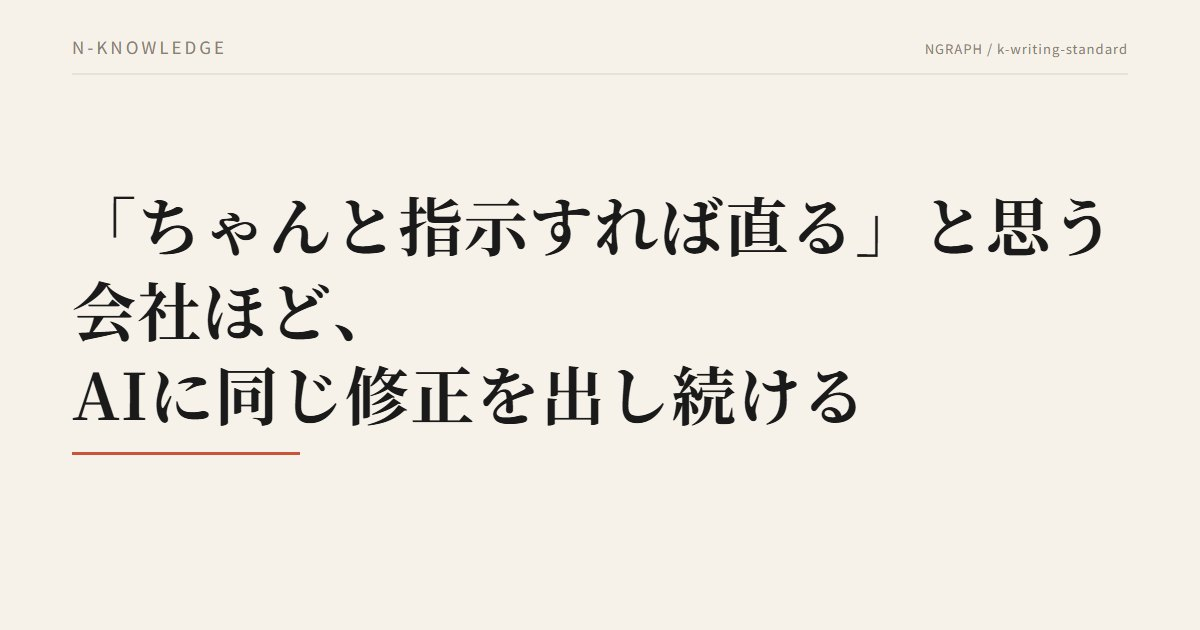
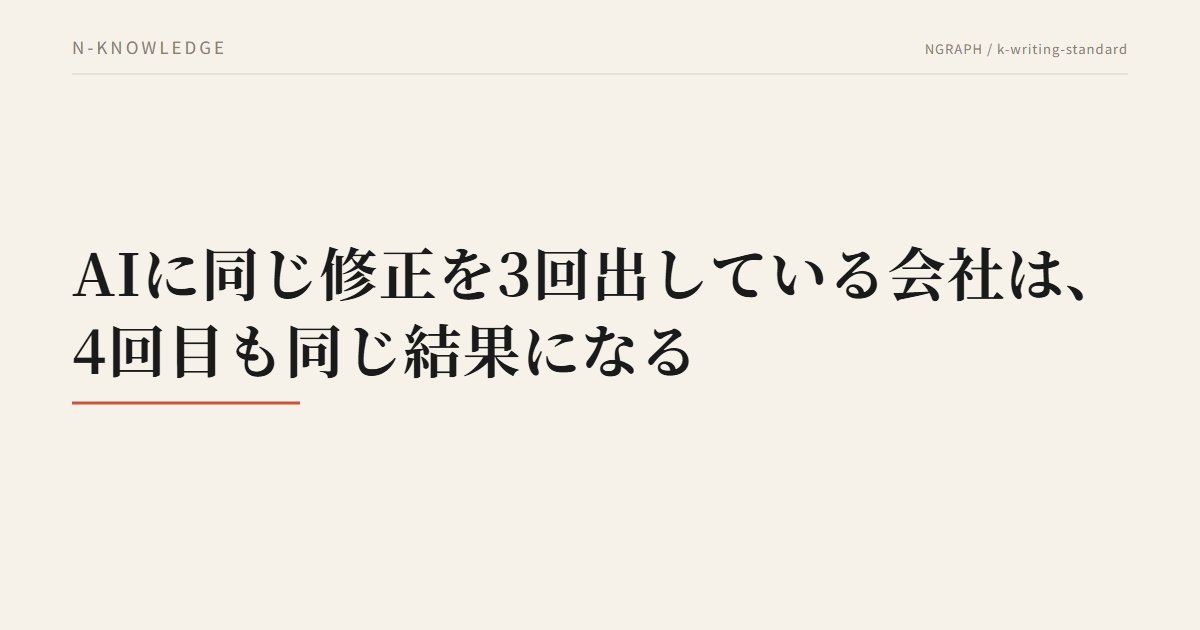
k-writing-standard を改題し、一覧/llms.txt とのタイトル不一致を検査に載せる
〔髙橋さん 2026-08-20「そもそもタイトルがイケてないんだ」〕

標本（ngraph-workspace/projects/ops-watch/blog-specimens.jsonl）の保存上位を実測すると、
上位7件に「——」で説明を足したものは1件も無く、長さは25〜33字だった。上位の型は逆説・
失敗の名指し（1707「そもそも生成AIでやるべきでない問い」に、企業が挑んでしまう問題／
671「AIを全員に配った組織」の生産性が落ちるとき）。旧題は前半の逆説は型に合っていたが、
後半「——品質基準を人の口から外す設計」が抽象標語で48字。X-OPS §6 8/18の仮説
「うちのタイトルは抽象概念解説型に寄っている」とも一致する。

- 新題「AIに同じ修正を3回出している会社は、4回目も同じ結果になる」（31字・数字あり・
  記事本文の核「3回出したなら4回目を出す前に置き場所を変える」と一致）。髙橋さん選択
- 表紙を2行で作り直した。「会社は、」の読点で切れるので語の分断ゼロ
- ⚠**一覧と llms.txt が旧タイトルのままだった**。8/19の改題で記事本体だけ直り、一覧の
  説明文に至っては没にした旧構想「基準の三段降ろし」のまま公開されていた（本文は「基準の移送」）

再発防止（title_sync_check.py 新設・gate.py に登録）:
既存の配線検査は「URLがあるか」しか見ておらず、タイトルの食い違いは素通りしていた。
h1と一覧/llms.txt を突合する検査を足す。ただし **report-only**——導入時点で既存14件が
不一致で、性質が3つに分かれるため（①改題の反映漏れ ②llms.txtが恒久記事の題を意図的に
短縮 ③引用符だけの差）、機械では正解を決められない。②を書き換えると意図した索引名を壊す。
黙って対象外にはせず毎回全件出す。全件が①③に片付いたら publish_check の CHECKS へ移す。

負テスト実測: 一覧のタイトルをズラすと検出件数が14→15に増えることを確認。

Changed region(s): [[0.0617, 0.3016, 0.925, 0.7238]]

diff --git a/blog/k-writing-standard.html b/blog/k-writing-standard.html
@@ -10,9 +10,9 @@
   gtag('js', new Date());
   gtag('config', 'G-L96HMXRK1D');
 </script>
-<title>「ちゃんと指示すれば直る」と思う会社ほど、AIに同じ修正を出し続ける——品質基準を人の口から外す設計 | NGraphブログ</title>
+<title>AIに同じ修正を3回出している会社は、4回目も同じ結果になる | NGraphブログ</title>
 <meta name="description" content="AIに出した修正指示は、次の生成には引き継がれません。基準を人の口から外し、AIが毎回読む指示書と、提出前に必ず走る検査へ移す設計です。閾値の決め方と、基準を作った本人が自分の基準に落ちた失敗まで公開します。">
-<meta property="og:title" content="「ちゃんと指示すれば直る」と思う会社ほど、AIに同じ修正を出し続ける——品質基準を人の口から外す設計 | NGraphブログ">
+<meta property="og:title" content="AIに同じ修正を3回出している会社は、4回目も同じ結果になる | NGraphブログ">
 <meta property="og:description" content="AIに出した修正指示は、次の生成には引き継がれません。基準を人の口から外し、AIが毎回読む指示書と、提出前に必ず走る検査へ移す設計です。閾値の決め方と、基準を作った本人が自分の基準に落ちた失敗まで公開します。">
 <meta property="og:type" content="article">
 <meta property="og:url" content="https://ngraph.jp/blog/k-writing-standard">
@@ -33,7 +33,7 @@
 {
   "@context": "https://schema.org",
   "@type": "Article",
-  "headline": "「ちゃんと指示すれば直る」と思う会社ほど、AIに同じ修正を出し続ける——品質基準を人の口から外す設計",
+  "headline": "AIに同じ修正を3回出している会社は、4回目も同じ結果になる",
   "image": "https://ngraph.jp/assets/blog/k-writing-standard.jpg",
   "description": "AIに出した修正指示は、次の生成には引き継がれません。基準を人の口から外し、AIが毎回読む指示書と、提出前に必ず走る検査へ移す設計です。閾値の決め方と、基準を作った本人が自分の基準に落ちた失敗まで公開します。",
   "datePublished": "2026-08-19",
@@ -61,9 +61,9 @@
 
 <article class="article-wrap">
   <div class="a-label">N-KNOWLEDGE</div>
-  <h1>「ちゃんと指示すれば直る」と思う会社ほど、AIに同じ修正を出し続ける——品質基準を人の口から外す設計</h1>
+  <h1>AIに同じ修正を3回出している会社は、4回目も同じ結果になる</h1>
   <span class="a-date">2026.08.19 ナレッジ ｜ 株式会社NGraph</span>
-  <img class="a-eyecatch" src="/assets/blog/k-writing-standard.jpg" alt="「ちゃんと指示すれば直る」と思う会社ほど、AIに同じ修正を出し続ける——品質基準を人の口から外す設計">
+  <img class="a-eyecatch" src="/assets/blog/k-writing-standard.jpg" alt="AIに同じ修正を3回出している会社は、4回目も同じ結果になる">
 <p>AIに議事録や見積の下書きを書かせている会社で、同じ場面が繰り返し起きています。担当者が「この言い回しを直して」と指示を出し、その回は直る。ところが翌日また書かせると、同じ癖が戻っている。担当者はもう一度同じ指示を出し、3回目あたりで指摘するのをやめます。これはAIの性能でも、担当者の根気でもなく、<strong>指示を置いた場所</strong>の問題です。NGraphは2026年8月16日にこの問題へ正面からぶつかり、その日のうちに基準の置き場所を変えました。この記事で公開するのは、そのとき使った「基準の移送」という設計と、閾値の決め方、そして基準を作った本人が自分の基準に落ちた失敗です。</p>
 <div class="a-toc"><strong>この記事でわかること</strong><br>
 ・AIへの指示が翌日に残らない理由と、それが担当者の責任ではない根拠<br>

diff --git a/blog/index.html b/blog/index.html
@@ -84,8 +84,8 @@
       <div class="card blog-card">
         <span class="b-date">2026.08.19 ナレッジ</span>
         <a href="/blog/k-writing-standard" class="b-thumb"><img src="/assets/blog/k-writing-standard.jpg" alt="" loading="lazy"></a>
-        <h3><a href="/blog/k-writing-standard">AIに同じ注意を3回したら、直すのは指示書のほう——文章の品質を機械で守る5つの原則</a></h3>
-        <p>AIに文章を書かせている会社の多くが、同じ注意を繰り返しています。基準を会話から指示書と機械検査へ降ろす「基準の三段降ろし」という設計と、実測した閾値の根拠、行き詰まった2つの失敗をそのまま公開します。</p>
+        <h3><a href="/blog/k-writing-standard">AIに同じ修正を3回出している会社は、4回目も同じ結果になる</a></h3>
+        <p>AIに出した修正指示は、次の生成には引き継がれません。基準を人の口から外し、AIが毎回読む指示書と、提出前に必ず走る検査へ移す設計です。閾値の決め方と、基準を作った本人が自分の基準に落ちた失敗まで公開します。</p>
         <a href="/blog/k-writing-standard" class="b-more">読む →</a>
       </div>
       <div class="card blog-card">

diff --git a/scripts/publish_check.py b/scripts/publish_check.py
@@ -33,6 +33,7 @@ SITE = "https://ngraph.jp"
 BLOG = ROOT / "blog"
 SITEMAP = ROOT / "sitemap.xml"
 LLMS = ROOT / "llms.txt"
+INDEX = ROOT / "blog" / "index.html"
 
 LLMS_SECTION = "## ブログ（AI導入の実践知）"
 DATED = re.compile(r"^(\d{4})(\d{2})(\d{2})-")
@@ -112,6 +113,40 @@ def check_llms():
     ]
 
 
+def check_title_sync():
+    """一覧（blog/index.html）と llms.txt のタイトルが、記事のh1と一致しているか。
+
+    ⚠なぜ要るか〔2026-08-20実測〕: `k-writing-standard` は、記事本体だけ改題されて
+    一覧と llms.txt が**旧タイトルのまま公開されていた**（しかも一覧の説明文は
+    没にした旧構想「基準の三段降ろし」のまま。記事本文は「基準の移送」）。
+    改題は記事HTMLの5箇所を直すので「直した」感覚になるが、配線側は別ファイルなので
+    黙って取り残される。既存の配線検査は **URLがあるか**しか見ていないため素通りした。
+    改題は今後も起きる（この記事だけで2回）ので、突合を機械に持たせる。
+
+    比較は記事h1の全文一致。一覧は文字数の都合で短縮したくなるが、**短縮したい
+    ならh1ごと短くする**のが正しい（一覧と本体で別の題が存在する状態を許さない）。
+    """
+    bad = []
+    idx = INDEX.read_text(encoding="utf-8")
+    lms = LLMS.read_text(encoding="utf-8")
+    for s in articles():
+        h1 = h1_of(s)
+        if not h1:
+            continue
+        # 一覧のカード: <h3><a href="/blog/<slug>">タイトル</a></h3>
+        m = re.search(r'<h3><a href="/blog/%s">(.*?)</a></h3>' % re.escape(s), idx, re.S)
+        if m:
+            got = html.unescape(" ".join(re.sub(r"<[^>]+>", "", m.group(1)).split()))
+            if got != h1:
+                bad.append("一覧のタイトルが記事h1と違う: %s\n    一覧: %s\n    記事: %s" % (s, got, h1))
+        # llms.txt: - [タイトル](https://ngraph.jp/blog/<slug>)
+        m = re.search(r"- \[(.*?)\]\(%s/blog/%s\)" % (re.escape(SITE), re.escape(s)), lms)
+        if m and m.group(1) != h1:
+            bad.append("llms.txt のタイトルが記事h1と違う: %s\n    llms: %s\n    記事: %s"
+                       % (s, m.group(1), h1))
+    return bad
+
+
 def check_blog_lastmod():
     latest = latest_article_date()
     if not latest:
@@ -171,6 +206,15 @@ def check_css_version():
 
 
 CHECKS = [check_sitemap, check_llms, check_blog_lastmod, check_alt, check_css_version]
+# check_title_sync は CHECKS に入れない（gate.py が report-only で回す）。
+# 理由〔2026-08-20〕: 導入時点で既存14件が不一致で、fail-closed にすると公開が全部止まる。
+# しかも14件は性質が3つに分かれ、機械では正解を決められない——
+#   ①改題が配線に反映されていない事故（最低賃金・k-x-loop 等6件。直すべき）
+#   ②llms.txt が恒久記事の題を意図的に短縮している（「営業のAI活用」等6件。正しいかもしれない）
+#   ③引用符だけの差（1件）
+# ②を機械が「不一致」として書き換えると、意図した索引名を壊す。よって**落とさず毎回全件出す**
+# （黙って対象外にすると検査が死ぬ＝memory feedback_broken_gate_hides_violations）。
+# 全件が①②のどちらか確定したら fail-closed へ上げる。
 
 
 # ---------------------------------------------------------------- 修正

diff --git a/scripts/title_sync_check.py b/scripts/title_sync_check.py
@@ -1,0 +1,45 @@
+#!/usr/bin/env python
+# -*- coding: utf-8 -*-
+"""一覧（blog/index.html）と llms.txt のタイトルが、記事のh1と一致しているか（report-only）。
+
+なぜ要るか〔2026-08-20実測〕: `k-writing-standard` は記事本体だけ改題され、一覧と
+llms.txt が**旧タイトルのまま公開されていた**（一覧の説明文に至っては没にした旧構想の
+まま）。改題は記事HTMLの5箇所を直すので「直した」感覚になるが、配線側は別ファイルなので
+黙って取り残される。既存の配線検査（publish_check）は **URLがあるか**しか見ていない。
+
+なぜ落とさないか: 導入時点で既存14件が不一致で、しかも性質が3つに分かれる——
+  ①改題が配線に反映されていない事故（最低賃金・k-x-loop 等。直すべき）
+  ②llms.txt が恒久記事の題を意図的に短縮している（「営業のAI活用」等。正しいかもしれない）
+  ③引用符だけの差
+②を機械が書き換えると意図した索引名を壊すので、正解は機械では決められない。
+よって**落とさず毎回全件出す**（黙って対象外にすると検査が死ぬ＝
+memory feedback_broken_gate_hides_violations）。全件が①③に片付いたら
+publish_check.py の CHECKS へ移して fail-closed に上げる。
+"""
+import importlib.util
+import os
+import sys
+
+sys.stdout.reconfigure(encoding="utf-8")
+HERE = os.path.dirname(os.path.abspath(__file__))
+
+
+def main():
+    spec = importlib.util.spec_from_file_location(
+        "publish_check", os.path.join(HERE, "publish_check.py"))
+    m = importlib.util.module_from_spec(spec)
+    spec.loader.exec_module(m)
+    bad = m.check_title_sync()
+    if not bad:
+        print("OK: 一覧・llms.txt のタイトルは記事h1と一致（不一致なし）")
+        return 0
+    print("参考 一覧/llms.txt と記事h1のタイトル不一致 %d件（本番には出ている・止めはしない）:" % len(bad))
+    for b in bad:
+        print("  - " + b.replace("\n", "\n  "))
+    print("  → 改題を配線に反映し忘れたものは直す。llms.txt で意図的に短くしている恒久記事は"
+          "そのままでよい（どちらか決めたらこの検査を publish_check.py の CHECKS へ移す）")
+    return 0
+
+
+if __name__ == "__main__":
+    sys.exit(main())

diff --git a/scripts/gate.py b/scripts/gate.py
@@ -43,6 +43,7 @@ CHECKS = [
     ("図のブロックの二重包み", "fig_lint.py", [], False),
     ("正本の出所（誰が決めた行かの印）", "knowledge_ops_lint.py", [], False),
     ("書いたのにpushされていない記事・表紙（report-only）", "unpushed_check.py", [], False),
+    ("一覧/llms.txt と記事h1のタイトル不一致（report-only）", "title_sync_check.py", [], False),
 ]
 
 
